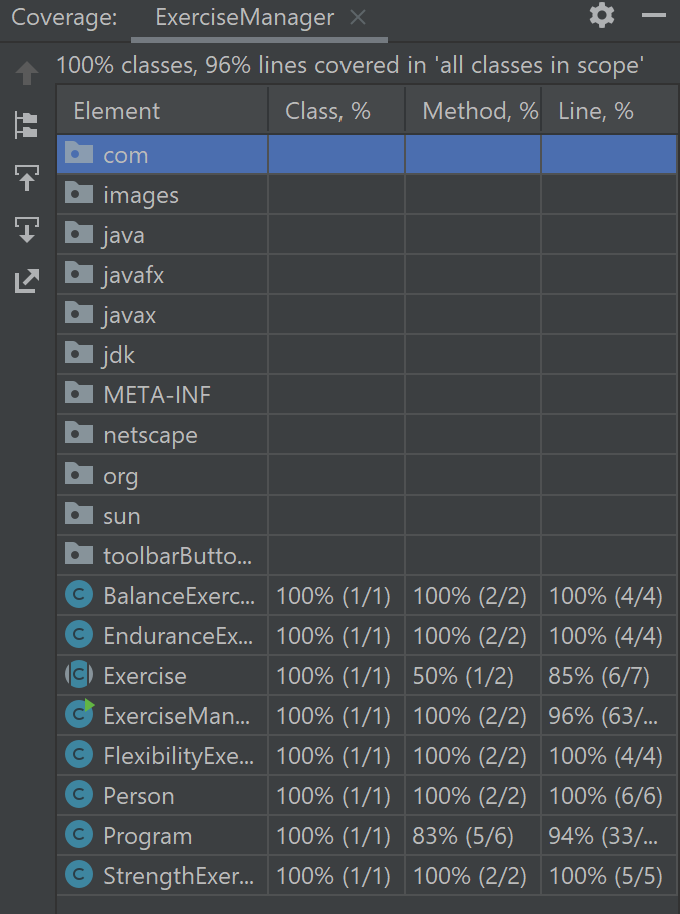
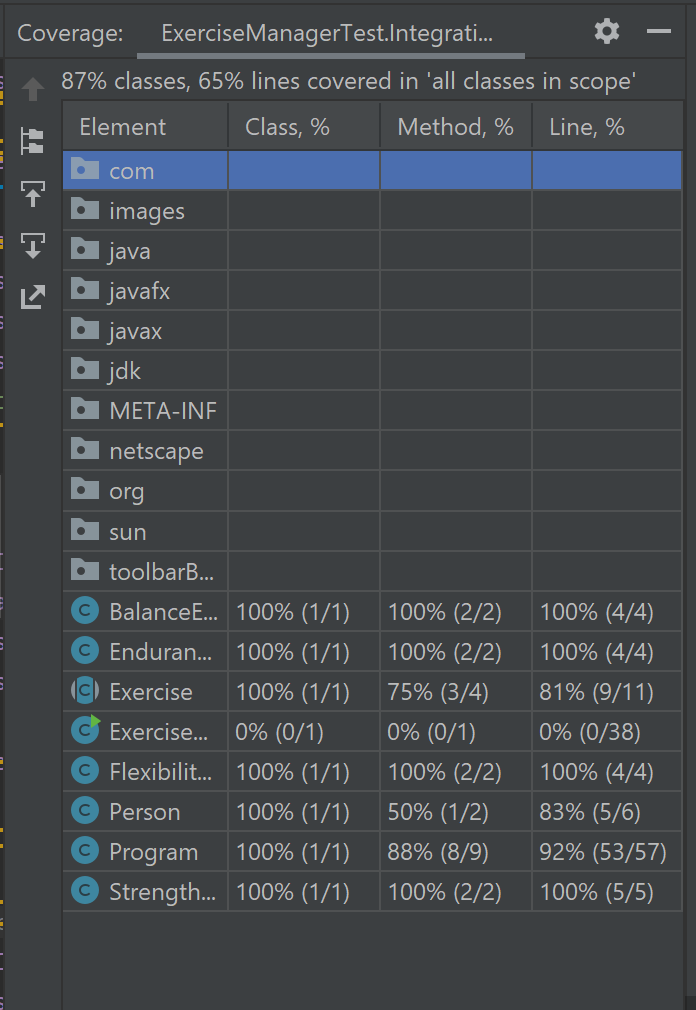
" ferdig med readme og integration test. Fikk ikke 100% på alt-på Person,Program og Exercise"

diff --git a/Test/ExerciseManagerTest.java b/Test/ExerciseManagerTest.java
@@ -1,0 +1,179 @@
+import org.junit.Assert;
+import org.junit.Test;
+import org.junit.jupiter.api.Assertions;
+
+import java.util.*;
+import java.util.ArrayList;
+
+import static org.junit.Assert.*;
+
+import org.junit.Test;
+
+import java.util.ArrayList;
+import java.util.ArrayList;
+import static org.junit.Assert.assertTrue;
+
+public class ExerciseManagerTest {
+
+    //tODO clean up
+
+    ArrayList<Exercise>exercises=new ArrayList<>();
+    Exercise BalanceExerciseTestAnotherClass=new BalanceExercise(1,3,4,5,"balance trainer");
+    Exercise StrengthExerciseTestAnotherClass=new StrengthExercise(3,5,6,3,10,"dumbell");
+    Exercise FlexibilityExerciseTestAnotherClass=new FlexibilityExercise(1,3,5,6,"nothing");
+    Exercise EnduranceExerciseTestAnotherClass=new EnduranceExercise(2,3,4,6,"barbell");
+
+    Program programTestAnotherClass=new Program();
+
+    int intensityLevel;
+    int duration;
+
+    //Checking the communication between classes
+    @org.junit.Test
+    public void IntegrationTest () {
+
+        programTestAnotherClass.setDuration(3);
+        assertEquals(programTestAnotherClass.duration,3);
+
+        exercises.add(BalanceExerciseTestAnotherClass);
+        exercises.add(EnduranceExerciseTestAnotherClass);
+        programTestAnotherClass.addExercises(exercises);
+        assertTrue(programTestAnotherClass.exercises.contains(BalanceExerciseTestAnotherClass));
+        assertTrue(programTestAnotherClass.exercises.contains(EnduranceExerciseTestAnotherClass));
+        assertEquals(programTestAnotherClass.intensitylevel, 0);
+
+        assertFalse(programTestAnotherClass.isProgramBalanced());
+
+        exercises.add(BalanceExerciseTestAnotherClass);
+        exercises.add(StrengthExerciseTestAnotherClass);
+        exercises.add(FlexibilityExerciseTestAnotherClass);
+        exercises.add(EnduranceExerciseTestAnotherClass);
+
+        programTestAnotherClass.addExercises(exercises);
+        assertTrue(programTestAnotherClass.isProgramBalanced());
+        System.out.println("Testing if the Program is balanced");
+
+        Exercise e1=new BalanceExercise(1,2,3,4,"nothing");
+        Exercise e2=new BalanceExercise(4,3,2,3,"nothing");
+        Exercise e3=new BalanceExercise(3,4,5,6, "nothing");
+        Exercise e4=new BalanceExercise(2,3,4,5,"nothing");
+
+        List <Exercise> workouts =new ArrayList<Exercise>(Arrays.asList(e1,e2,e3,e4));
+        Collections.sort(workouts);
+        System.out.println(workouts.toString());
+
+            Program programTest2 = new Program();
+            Person personTest2 = new Person("balance", 1, programTestAnotherClass);
+            exercises.add(FlexibilityExerciseTestAnotherClass);
+            exercises.add(EnduranceExerciseTestAnotherClass);
+            exercises.add(StrengthExerciseTestAnotherClass);
+            exercises.add(BalanceExerciseTestAnotherClass);
+            programTest2.addExercises(exercises);
+            programTest2.makeProgram(exercises, programTestAnotherClass);
+
+            assertTrue(personTest2.currentProgram.exercises.contains(FlexibilityExerciseTestAnotherClass));
+            assertTrue(personTest2.currentProgram.exercises.contains(EnduranceExerciseTestAnotherClass));
+            assertTrue(personTest2.currentProgram.exercises.contains(StrengthExerciseTestAnotherClass));
+            assertTrue(personTest2.currentProgram.exercises.contains(BalanceExerciseTestAnotherClass));
+            System.out.println("Test to see if the correct Exercise is included");
+
+
+            Program programTest3 = new Program();
+            exercises.add(FlexibilityExerciseTestAnotherClass);
+            exercises.add(EnduranceExerciseTestAnotherClass);
+            exercises.add(StrengthExerciseTestAnotherClass);
+            exercises.add(BalanceExerciseTestAnotherClass);
+            programTest3.addExercises(exercises);
+            programTest3.makeProgram(exercises, programTestAnotherClass);
+
+
+            Program programTesting =new Program();
+            Person personTesting=new Person ("balance",50, programTestAnotherClass);
+            exercises.add(FlexibilityExerciseTestAnotherClass);
+            exercises.add(StrengthExerciseTestAnotherClass);
+            exercises.add(BalanceExerciseTestAnotherClass);
+            programTesting.addExercises(exercises);
+            programTesting.makeProgram(exercises,programTesting);
+
+            assertTrue(personTesting.currentProgram.exercises.contains(BalanceExerciseTestAnotherClass));
+            assertTrue(personTesting.currentProgram.exercises.contains(StrengthExerciseTestAnotherClass));
+            assertTrue(personTesting.currentProgram.exercises.contains(BalanceExerciseTestAnotherClass));
+            System.out.println("Testing if Making program works");
+
+
+            Person personTesting2 =new Person ("balance",5, programTesting);
+            programTesting.giveProgram(personTesting2);
+            assertEquals( programTesting.giveProgram(personTesting2), "We have assigned this program to you:  "+ '\n' + "The programs overall intensity is "+ personTesting2.currentProgram.overallIntensity() + " and this is your preferred intensity " + personTesting2.acceptableIntensity + '\n'+
+                    personTest2.currentProgram.exercises);
+
+            exercises.add(BalanceExerciseTestAnotherClass);
+            exercises.add(EnduranceExerciseTestAnotherClass);
+            programTest3.addExercises(exercises);
+            System.out.println(programTest3.overallIntensity());
+            Person personTest = new Person("endurance", 2, programTest3);
+            assertTrue(programTest3.doesProgramFit(personTest, programTestAnotherClass));
+
+
+            Exercise eTest = new StrengthExercise(11, 2, 3, 4, 5, "shoes");
+            assertTrue(eTest.toString().contains("s"));
+            assertTrue(eTest.toString().contains("strength"));
+
+            assertEquals(eTest.getIntensity(), 11);
+            assertTrue(eTest.compareTo(eTest) == 0);
+
+            Exercise exerciseTest2 = new EnduranceExercise(60, 30, 0, 0, "cycle");
+            exercises.add(exerciseTest2);
+            Exercise exerciseTest3 = new FlexibilityExercise(50, 30, 12, 2, "nothing");
+            exercises.add(exerciseTest3);
+
+            Program testProgram2 = new Program();
+            testProgram2.exercises.add(exerciseTest2);
+            testProgram2.exercises.add(exerciseTest3);
+
+            Person testPerson2 = new Person("flexibility", 60, testProgram2);
+            assertTrue(testProgram2.exercises.toString().contains("flexibility") && testPerson2.preferredExercise == "flexibility");
+
+
+            if (testProgram2.exercises.toString().contains("flexibility") && testPerson2.preferredExercise == "flexibility") {
+                System.out.println("Testing if program contains the preferred exercise");
+                assertTrue(true);
+
+                if ((testProgram2.overallIntensity() <= (testPerson2.acceptableIntensity = 70)) &&
+                        (testProgram2.overallIntensity() >= (testPerson2.acceptableIntensity = 60))) {
+                    System.out.println("Testing if overall intensity of program is equal to acceptable intensity");
+                    assertTrue(true);
+                } else {
+                    System.out.println("Incorrect intensity level!");
+                    assertTrue(false);
+                }
+            } else {
+                System.out.println("Preferred exercise is not included!");
+                assertTrue(false);
+
+
+
+
+
+
+
+
+
+
+
+
+
+            }
+
+        }
+    }
+
+
+
+
+
+
+
+
+
+
+

diff --git a/README.md b/README.md
@@ -135,7 +135,7 @@ Select the root directory, and module from where picking up the classpath. Or to
 * We decided to only test the functions of the task,ie. methods, line of codes and the program we created, following the criteria we have been assigned.So, there is no stress testing,
 performance testing or backend testing. Here you can see the coverage result for our Classes, methods and lines. 
 ![](images/coverageSc.png)
-(Vi får ta en annen sc når koden er ferdig, bildet er her bare for å teste om det går ann å sette bilder.)
+
 According to the criteria, the percentage of test coverage, have to be at least 50%. Considering that, we strove to deliver a complete product without any bugs and faults in 
 production; So, our test criteria is based on creating multiple tests, with a code coverage of 100%.
 
@@ -160,7 +160,7 @@ The quality of the production code depends on the tests and this project provide
 <ins> **Acceptance Test**</ins>- A test that examines whether the software meets the user needs,requirements, and criteria we have been given.<br/>
 <br/>
 The framework that have been used for these tests is JUnit, which enables to write repeatable tests that can be incorporated into a continuous Integration workflow.
-(når vi er helt ferdig med koden, så skal vi ha en gif her, som viser de forskjellige testene)
+![](images/tests.gif)
 
 **NOTE**: it is important for the test class to have the following parts: 
 - [x] imports
@@ -180,8 +180,7 @@ Within the tests:
 * **PersonTest**, tests if the person gets the preferred exercise, if the intensity is acceptable and if the program is correct for a given person.
 * **ProgramTest**, tests it all the exercise are grouped into programs, if the total duration and overall intensity are correct.As well as testing if the program is balanced.
 * **StrengthExerciseTest**, imports Assertions, and checks if the intensity,repetitions,sets, equipment and durations are correct for the created programs, as well as testing the toString method.
-* **ExerciseManager**, tests if the program is appropriate for a given person, both in terms of acceptable intensity and preferred exercise. ...... (komemer mer tekst her når vi er ferdig med koden.)
-
+* **ExerciseManager**, contains Integration test, which tests how well all of the classes/methods are integrating/communicating with each other. 
 
 
 
